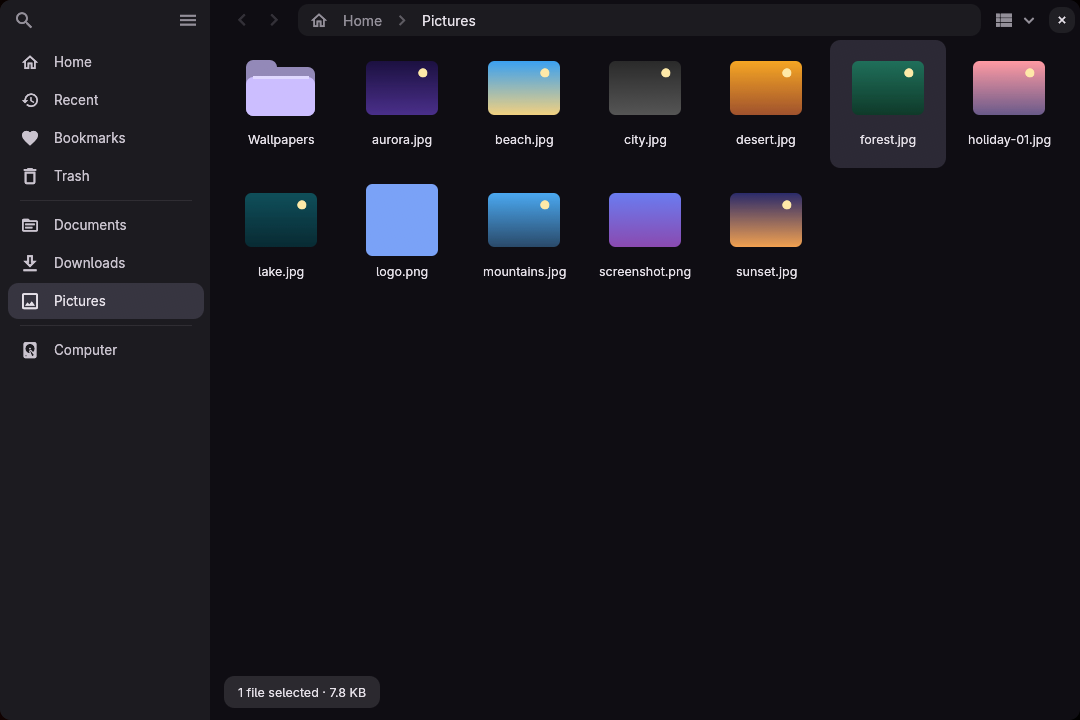
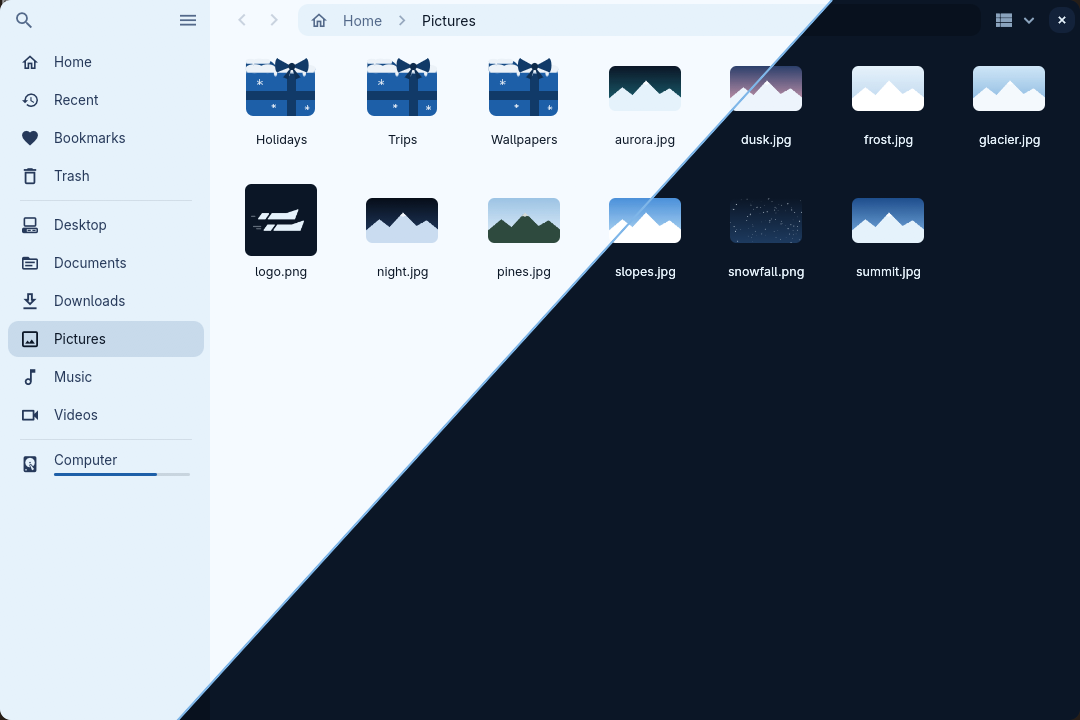
docs: winter hero screenshot in light and dark, new tagline, Serpantinum step in releasing

diff --git a/docs/releasing.md b/docs/releasing.md
@@ -2,7 +2,7 @@
 
 Pushing a tag `vX.Y.Z` runs `.github/workflows/release.yml`, which builds Ski and publishes a GitHub release with the `.tar.gz`, `.deb`, `.rpm` and `SHA256SUMS`. The same tag also makes `docker.yml` push the container image. Nothing is built or uploaded by hand.
 
-A release has three parts: test, tag and publish, then bring the nixpkgs package up to the new version. A patch release takes about 15 minutes in total, most of it waiting for builds.
+A release has four parts: test, tag and publish, bring the nixpkgs package up to the new version, then bump the Ski version Serpantinum bundles. A patch release takes about 15 minutes in total, most of it waiting for builds.
 
 ## Before you start
 
@@ -88,6 +88,18 @@ The package is `pkgs/by-name/sk/ski/package.nix`. A release changes three lines:
    gh pr view 581531 --repo NixOS/nixpkgs --json state,title,headRefOid,commits -q '.state, .title, .headRefOid, [.commits[].messageHeadline]'
    ```
    It must be `OPEN`, the head must be your new commit, and `maintainers: add ilyamiro` must still be the first commit.
+
+## 4. Update the Ski version in Serpantinum
+
+Serpantinum's AUR packages bundle a pinned Ski release binary, so each release bumps it there too. In `~/Projects/serpantinum` (`git pull` first), both `packaging/aur/serpantinum/PKGBUILD` and `packaging/aur/serpantinum-git/PKGBUILD` have:
+
+- `_skiver=X.Y.Z`: the new version.
+- The Ski tarball's line in `sha256sums` (the second entry): the new tarball's hash, from the release's checksums:
+  ```sh
+  gh release download vX.Y.Z --repo ilyamiro/Ski -p SHA256SUMS -O - | grep x86_64-linux.tar.gz
+  ```
+
+Find any other pinned version with `grep -rn "<old version>" --exclude-dir=.git .`. Commit with `chore(aur): bundle Ski X.Y.Z` (Serpantinum's own `AGENTS.md` asks for one-line conventional commits) and push `master`.
 
 ## Things that go wrong
 

diff --git a/README.md b/README.md
@@ -4,9 +4,9 @@
 
 <h1 align="center">Ski</h1>
 
-A file manager for Linux, written in Rust. Wayland and X11, list and grid views with thumbnails, tabs, vim keys, network shares and SSH servers, and a system file dialog.
+A fast Rust file manager. Wayland and X11, list and grid views with thumbnails, tabs, vim keys, network shares and SSH servers, and a system file dialog.
 
-![Ski showing a Pictures folder as a grid of thumbnails](docs/screenshots/hero.png)
+![Ski showing a Pictures folder with winter icons, split diagonally between a light ice-blue theme and a dark navy one](docs/screenshots/hero.png)
 
 ## Install
 
